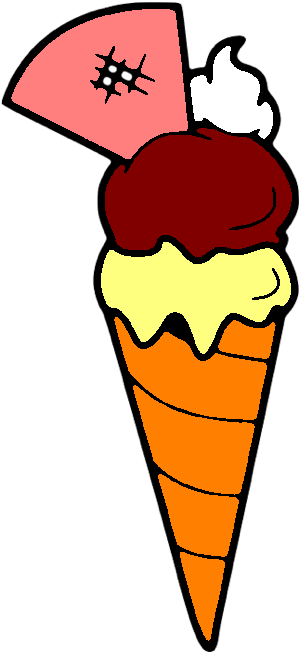
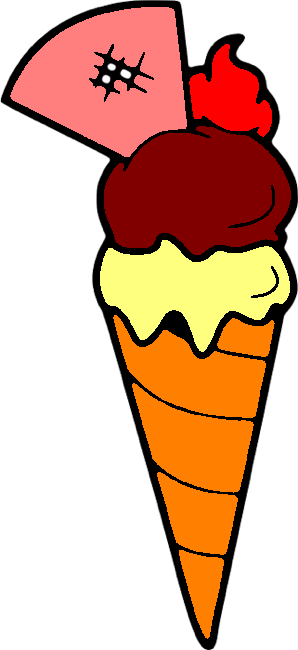
Remove white from drawing images. Mark mixing area as clicked once new color is dragged onto it.

diff --git a/js/image_library.js b/js/image_library.js
@@ -8,28 +8,28 @@ ImageLibrary =
 {level: 0, type: "video", filename: "tutorials/level1_tutorial.m4v", jsonRecordedData: [], messageData: [{"t": 1, "message": "Let's learn how to fill color!" }, { "t": 8, "message": "Touch blob to pick color" }, { "t": 17, "message": "Touch drawing to fill color" }, { "t": 21, "message": " " }]},
 {level: 1, type: "image", filename: "heart", jsonRecordedData: [{"x":240,"y":301,"color":"rgba(255,0,0,1)"}]},
 {level: 1, type: "image", filename: "cheese", jsonRecordedData: [{"x":442,"y":467,"color":"rgba(255,255,0,1)"},{"x":455,"y":282,"color":"rgba(255,255,0,1)"},{"x":250,"y":396,"color":"rgba(1,1,1,1)"},{"x":465,"y":346,"color":"rgba(1,1,1,1)"}]},
-{level: 1, type: "image", filename: "rabbit", jsonRecordedData: [{"x":484,"y":519,"color":"rgba(255,255,255,1)"},{"x":334,"y":562,"color":"rgba(255,255,255,1)"},{"x":326,"y":592,"color":"rgba(255,255,255,1)"},{"x":296,"y":595,"color":"rgba(255,255,255,1)"},{"x":436,"y":281,"color":"rgba(255,255,255,1)"},{"x":274,"y":279,"color":"rgba(255,255,255,1)"},{"x":310,"y":518,"color":"rgba(255,0,0,1)"},{"x":242,"y":302,"color":"rgba(255,0,0,1)"},{"x":373,"y":280,"color":"rgba(255,0,0,1)"}]},
+{level: 1, type: "image", filename: "rabbit", jsonRecordedData: [{"x":331,"y":358,"color":"rgba(255,255,0,1)"},{"x":172,"y":103,"color":"rgba(255,255,0,1)"},{"x":423,"y":108,"color":"rgba(255,255,0,1)"},{"x":311,"y":522,"color":"rgba(1,1,1,1)"},{"x":224,"y":576,"color":"rgba(255,0,0,1)"},{"x":230,"y":296,"color":"rgba(255,0,0,1)"},{"x":383,"y":282,"color":"rgba(255,0,0,1)"}]},
 {level: 1, type: "image", filename: "ladybird", jsonRecordedData: [{"x":194,"y":390,"color":"rgba(1,1,1,1)"},{"x":314,"y":342,"color":"rgba(1,1,1,1)"},{"x":356,"y":383,"color":"rgba(1,1,1,1)"},{"x":387,"y":349,"color":"rgba(1,1,1,1)"},{"x":276,"y":302,"color":"rgba(1,1,1,1)"},{"x":360,"y":302,"color":"rgba(1,1,1,1)"},{"x":288,"y":386,"color":"rgba(255,0,0,1)"},{"x":307,"y":299,"color":"rgba(255,0,0,1)"}]},
 {level: 2, type: "video", filename: "tutorials/level2_tutorial.m4v", jsonRecordedData: [], messageData: [{"t": 1, "message": "Learn to create new colors!" }, { "t": 6, "message": "Drag colors to mixing area" }, { "t": 16, "message": "Drag new color to blob to save!" }, { "t": 20, "message": " " }]},
 {level: 3, type: "image", filename: "chick_head", jsonRecordedData: [{"x":360,"y":550,"color":"rgba(255,255,0,1)"},{"x":322,"y":433,"color":"rgba(255,127,0,1)"},{"x":314,"y":497,"color":"rgba(255,127,0,1)"}]},
 {level: 3, type: "image", filename: "duckling", jsonRecordedData: [{"x":363,"y":284,"color":"rgba(255,255,0,1)"},{"x":456,"y":240,"color":"rgba(255,127,0,1)"}]},
-{level: 3, type: "image", filename: "frog_1", jsonRecordedData: [{"x":372,"y":537,"color":"rgba(0,128,0,1)"},{"x":350,"y":269,"color":"rgba(0,128,0,1)"},{"x":378,"y":216,"color":"rgba(255,255,255,1)"},{"x":239,"y":176,"color":"rgba(255,255,255,1)"}]},
+{level: 3, type: "image", filename: "frog_1", jsonRecordedData: [{"x":372,"y":537,"color":"rgba(0,128,0,1)"},{"x":350,"y":269,"color":"rgba(0,128,0,1)"}]},
 {level: 3, type: "image", filename: "caterpillar", jsonRecordedData: [{"x":449,"y":415,"color":"rgba(0,255,0,1)"},{"x":321,"y":365,"color":"rgba(0,255,0,1)"},{"x":251,"y":270,"color":"rgba(0,255,0,1)"},{"x":146,"y":375,"color":"rgba(0,255,0,1)"},{"x":60,"y":392,"color":"rgba(0,255,0,1)"},{"x":390,"y":369,"color":"rgba(0,128,0,1)"},{"x":276,"y":318,"color":"rgba(0,128,0,1)"},{"x":184,"y":351,"color":"rgba(0,128,0,1)"},{"x":89,"y":394,"color":"rgba(0,128,0,1)"}]},
 {level: 3, type: "image", filename: "bee", jsonRecordedData: [{"x":366,"y":386,"color":"rgba(255,255,0,1)"},{"x":302,"y":401,"color":"rgba(255,255,0,1)"},{"x":227,"y":406,"color":"rgba(255,255,0,1)"},{"x":165,"y":421,"color":"rgba(255,255,0,1)"},{"x":374,"y":218,"color":"rgba(128,128,128,1)"},{"x":245,"y":231,"color":"rgba(128,128,128,1)"}]},
 {level: 3, type: "image", filename: "beach_bucket", jsonRecordedData: [{"x":283,"y":513,"color":"rgba(255,255,0,1)"},{"x":171,"y":384,"color":"rgba(255,255,0,1)"},{"x":373,"y":311,"color":"rgba(255,255,0,1)"},{"x":215,"y":620,"color":"rgba(127,0,127,1)"},{"x":317,"y":350,"color":"rgba(127,0,127,1)"},{"x":445,"y":299,"color":"rgba(127,0,127,1)"},{"x":487,"y":286,"color":"rgba(127,0,127,1)"},{"x":484,"y":365,"color":"rgba(255,255,0,1)"},{"x":156,"y":327,"color":"rgba(255,255,0,1)"},{"x":134,"y":289,"color":"rgba(255,255,0,1)"},{"x":181,"y":336,"color":"rgba(127,0,127,1)"}]},
 {level: 3, type: "image", filename: "circus_tent", jsonRecordedData: [{"x":202,"y":382,"color":"rgba(255,0,0,1)"},{"x":205,"y":347,"color":"rgba(255,0,0,1)"},{"x":291,"y":352,"color":"rgba(255,0,0,1)"},{"x":374,"y":352,"color":"rgba(255,0,0,1)"},{"x":326,"y":220,"color":"rgba(255,0,0,1)"},{"x":158,"y":463,"color":"rgba(255,0,0,1)"},{"x":213,"y":462,"color":"rgba(255,0,0,1)"},{"x":274,"y":451,"color":"rgba(255,0,0,1)"},{"x":353,"y":440,"color":"rgba(255,0,0,1)"},{"x":412,"y":444,"color":"rgba(255,0,0,1)"},{"x":481,"y":447,"color":"rgba(255,0,0,1)"},{"x":180,"y":438,"color":"rgba(255,255,127,1)"},{"x":248,"y":445,"color":"rgba(255,255,127,1)"},{"x":249,"y":355,"color":"rgba(255,255,127,1)"},{"x":330,"y":355,"color":"rgba(255,255,127,1)"},{"x":430,"y":352,"color":"rgba(255,255,127,1)"},{"x":325,"y":407,"color":"rgba(255,255,127,1)"},{"x":380,"y":416,"color":"rgba(255,255,127,1)"},{"x":446,"y":431,"color":"rgba(255,255,127,1)"}]},
 {level: 4, type: "image", filename: "pigeon", jsonRecordedData: [{"x":330,"y":412,"color":"rgba(255,255,0,1)"},{"x":358,"y":314,"color":"rgba(255,255,127,1)"},{"x":462,"y":254,"color":"rgba(255,127,0,1)"},{"x":457,"y":277,"color":"rgba(255,127,0,1)"},{"x":163,"y":226,"color":"rgba(255,127,0,1)"},{"x":232,"y":514,"color":"rgba(255,127,0,1)"},{"x":347,"y":514,"color":"rgba(255,127,0,1)"},{"x":177,"y":579,"color":"rgba(0,128,0,1)"}]},
 {level: 4, type: "image", filename: "flower", jsonRecordedData: [{"x":236,"y":425,"color":"rgba(128,0,0,1)"},{"x":158,"y":291,"color":"rgba(128,0,0,1)"},{"x":212,"y":174,"color":"rgba(128,0,0,1)"},{"x":356,"y":164,"color":"rgba(128,0,0,1)"},{"x":447,"y":212,"color":"rgba(128,0,0,1)"},{"x":447,"y":320,"color":"rgba(128,0,0,1)"},{"x":371,"y":412,"color":"rgba(128,0,0,1)"},{"x":305,"y":631,"color":"rgba(0,255,0,1)"},{"x":367,"y":574,"color":"rgba(0,128,0,1)"},{"x":311,"y":343,"color":"rgba(255,255,0,1)"}]},
-{level: 4, type: "image", filename: "ice_cream", jsonRecordedData: [{"x":357,"y":620,"color":"rgba(255,127,0,1)"},{"x":359,"y":539,"color":"rgba(255,127,0,1)"},{"x":359,"y":482,"color":"rgba(255,127,0,1)"},{"x":375,"y":412,"color":"rgba(255,127,0,1)"},{"x":401,"y":371,"color":"rgba(255,127,0,1)"},{"x":390,"y":304,"color":"rgba(255,255,127,1)"},{"x":353,"y":228,"color":"rgba(128,0,0,1)"},{"x":401,"y":137,"color":"rgba(255,255,255,1)"},{"x":250,"y":135,"color":"rgba(255,127,127,1)"}]},
-{level: 4, type: "image", filename: "owl", jsonRecordedData: [{"x":312,"y":515,"color":"rgba(127,127,255,1)"},{"x":378,"y":273,"color":"rgba(255,255,255,1)"},{"x":199,"y":589,"color":"rgba(255,0,0,1)"},{"x":225,"y":586,"color":"rgba(255,0,0,1)"},{"x":243,"y":586,"color":"rgba(255,0,0,1)"},{"x":371,"y":586,"color":"rgba(255,0,0,1)"},{"x":392,"y":585,"color":"rgba(255,0,0,1)"},{"x":416,"y":587,"color":"rgba(255,0,0,1)"},{"x":311,"y":264,"color":"rgba(255,0,0,1)"}]},
-{level: 4, type: "image", filename: "dinosaur", jsonRecordedData: [{"x":315,"y":582,"color":"rgba(0,128,0,1)"},{"x":276,"y":602,"color":"rgba(0,128,0,1)"},{"x":199,"y":614,"color":"rgba(0,128,0,1)"},{"x":160,"y":605,"color":"rgba(0,128,0,1)"},{"x":194,"y":244,"color":"rgba(0,128,0,1)"},{"x":247,"y":514,"color":"rgba(127,127,255,1)"},{"x":154,"y":78,"color":"rgba(255,255,255,1)"}]},
-{level: 4, type: "image", filename: "frog", jsonRecordedData: [{"x":391,"y":312,"color":"rgba(0,255,0,1)"},{"x":469,"y":395,"color":"rgba(0,255,0,1)"},{"x":244,"y":265,"color":"rgba(0,128,0,1)"},{"x":451,"y":186,"color":"rgba(0,128,0,1)"},{"x":429,"y":150,"color":"rgba(0,128,0,1)"},{"x":360,"y":460,"color":"rgba(128,128,0,1)"}]},
+{level: 4, type: "image", filename: "ice_cream", jsonRecordedData: [{"x":357,"y":620,"color":"rgba(255,127,0,1)"},{"x":359,"y":539,"color":"rgba(255,127,0,1)"},{"x":359,"y":482,"color":"rgba(255,127,0,1)"},{"x":375,"y":412,"color":"rgba(255,127,0,1)"},{"x":401,"y":371,"color":"rgba(255,127,0,1)"},{"x":390,"y":304,"color":"rgba(255,255,127,1)"},{"x":353,"y":228,"color":"rgba(128,0,0,1)"},{"x":401,"y":137,"color":"rgba(255,0,0,1)"},{"x":250,"y":135,"color":"rgba(255,127,127,1)"}]},
+{level: 4, type: "image", filename: "owl", jsonRecordedData: [{"x":312,"y":515,"color":"rgba(127,127,255,1)"},{"x":199,"y":589,"color":"rgba(255,0,0,1)"},{"x":225,"y":586,"color":"rgba(255,0,0,1)"},{"x":243,"y":586,"color":"rgba(255,0,0,1)"},{"x":371,"y":586,"color":"rgba(255,0,0,1)"},{"x":392,"y":585,"color":"rgba(255,0,0,1)"},{"x":416,"y":587,"color":"rgba(255,0,0,1)"},{"x":311,"y":264,"color":"rgba(255,0,0,1)"}]},
+{level: 4, type: "image", filename: "dinosaur", jsonRecordedData: [{"x":315,"y":582,"color":"rgba(0,128,0,1)"},{"x":276,"y":602,"color":"rgba(0,128,0,1)"},{"x":199,"y":614,"color":"rgba(0,128,0,1)"},{"x":160,"y":605,"color":"rgba(0,128,0,1)"},{"x":194,"y":244,"color":"rgba(0,128,0,1)"},{"x":247,"y":514,"color":"rgba(127,127,255,1)"}]},
+{level: 4, type: "image", filename: "frog", jsonRecordedData: [{"x":391,"y":312,"color":"rgba(0,255,0,1)"},{"x":469,"y":395,"color":"rgba(0,255,0,1)"},{"x":244,"y":265,"color":"rgba(0,128,0,1)"},{"x":451,"y":186,"color":"rgba(0,128,0,1)"},{"x":429,"y":150,"color":"rgba(0,128,0,1)"},{"x":360,"y":460,"color":"rgba(85,85,0,1)"}]},
 {level: 4, type: "image", filename: "mailbox", jsonRecordedData:[{"x":302,"y":526,"color":"rgba(128,0,0,1)"},{"x":325,"y":156,"color":"rgba(255,0,0,1)"},{"x":154,"y":222,"color":"rgba(255,0,0,1)"},{"x":282,"y":340,"color":"rgba(1,1,1,1)"},{"x":173,"y":306,"color":"rgba(1,1,1,1)"},{"x":129,"y":303,"color":"rgba(1,1,1,1)"},{"x":404,"y":365,"color":"rgba(128,128,128,1)"},{"x":151,"y":341,"color":"rgba(128,128,128,1)"},{"x":184,"y":423,"color":"rgba(128,128,128,1)"}]},
 {level: 4, type: "image", filename: "pig", jsonRecordedData: [{"x":300,"y":345,"color":"rgba(255,127,127,1)"},{"x":213,"y":466,"color":"rgba(255,127,127,1)"},{"x":367,"y":461,"color":"rgba(255,127,127,1)"},{"x":363,"y":230,"color":"rgba(255,85,85,1)"},{"x":515,"y":226,"color":"rgba(255,85,85,1)"},{"x":474,"y":376,"color":"rgba(255,85,85,1)"},{"x":100,"y":258,"color":"rgba(255,85,85,1)"},{"x":73,"y":265,"color":"rgba(255,85,85,1)"}]},
 {level: 5, type: "image", filename: "fish", jsonRecordedData: [{"x":250,"y":475,"color":"rgba(85,85,85,1)"},{"x":232,"y":374,"color":"rgba(85,85,85,1)"},{"x":232,"y":278,"color":"rgba(85,85,85,1)"},{"x":166,"y":438,"color":"rgba(85,85,85,1)"},{"x":156,"y":367,"color":"rgba(85,85,85,1)"},{"x":168,"y":293,"color":"rgba(85,85,85,1)"},{"x":94,"y":408,"color":"rgba(85,85,85,1)"},{"x":254,"y":528,"color":"rgba(85,85,85,1)"},{"x":264,"y":183,"color":"rgba(85,85,85,1)"},{"x":309,"y":421,"color":"rgba(128,128,128,1)"},{"x":321,"y":505,"color":"rgba(128,128,128,1)"},{"x":284,"y":312,"color":"rgba(128,128,128,1)"},{"x":300,"y":236,"color":"rgba(128,128,128,1)"},{"x":191,"y":315,"color":"rgba(128,128,128,1)"},{"x":188,"y":414,"color":"rgba(128,128,128,1)"},{"x":205,"y":477,"color":"rgba(128,128,128,1)"},{"x":138,"y":388,"color":"rgba(128,128,128,1)"},{"x":201,"y":260,"color":"rgba(128,128,128,1)"},{"x":565,"y":294,"color":"rgba(0,0,255,1)"},{"x":540,"y":212,"color":"rgba(0,0,255,1)"},{"x":371,"y":411,"color":"rgba(255,255,127,1)"},{"x":503,"y":416,"color":"rgba(1,1,1,1)"}]},
-{level: 5, type: "image", filename: "blue_clue", jsonRecordedData: [{"x":385,"y":389,"color":"rgba(127,127,255,1)"},{"x":457,"y":266,"color":"rgba(127,127,255,1)"},{"x":185,"y":449,"color":"rgba(127,127,255,1)"},{"x":246,"y":505,"color":"rgba(127,127,255,1)"},{"x":187,"y":405,"color":"rgba(0,0,255,1)"},{"x":158,"y":279,"color":"rgba(0,0,255,1)"},{"x":207,"y":178,"color":"rgba(0,0,255,1)"},{"x":380,"y":202,"color":"rgba(0,0,255,1)"},{"x":484,"y":310,"color":"rgba(0,0,255,1)"},{"x":242,"y":469,"color":"rgba(0,0,255,1)"},{"x":313,"y":236,"color":"rgba(255,255,255,1)"},{"x":412,"y":340,"color":"rgba(0,0,255,1)"},{"x":328,"y":408,"color":"rgba(255,127,127,1)"},{"x":320,"y":304,"color":"rgba(255,127,127,1)"}]},
+{level: 5, type: "image", filename: "blue_clue", jsonRecordedData: [{"x":385,"y":389,"color":"rgba(127,127,255,1)"},{"x":457,"y":266,"color":"rgba(127,127,255,1)"},{"x":185,"y":449,"color":"rgba(127,127,255,1)"},{"x":246,"y":505,"color":"rgba(127,127,255,1)"},{"x":187,"y":405,"color":"rgba(0,0,255,1)"},{"x":158,"y":279,"color":"rgba(0,0,255,1)"},{"x":207,"y":178,"color":"rgba(0,0,255,1)"},{"x":380,"y":202,"color":"rgba(0,0,255,1)"},{"x":484,"y":310,"color":"rgba(0,0,255,1)"},{"x":242,"y":469,"color":"rgba(0,0,255,1)"},{"x":412,"y":340,"color":"rgba(0,0,255,1)"},{"x":328,"y":408,"color":"rgba(255,127,127,1)"},{"x":320,"y":304,"color":"rgba(255,127,127,1)"}]},
 {level: 5, type: "image", filename: "butterfly", jsonRecordedData: [{"x":290,"y":379,"color":"rgba(255,127,127,1)"},{"x":219,"y":422,"color":"rgba(255,127,127,1)"},{"x":262,"y":264,"color":"rgba(255,127,127,1)"},{"x":242,"y":553,"color":"rgba(255,127,127,1)"},{"x":278,"y":556,"color":"rgba(255,127,127,1)"},{"x":246,"y":387,"color":"rgba(170,85,170,1)"},{"x":220,"y":316,"color":"rgba(170,85,170,1)"},{"x":350,"y":362,"color":"rgba(170,85,170,1)"},{"x":389,"y":497,"color":"rgba(170,85,170,1)"},{"x":157,"y":492,"color":"rgba(170,85,170,1)"},{"x":221,"y":457,"color":"rgba(127,0,127,1)"},{"x":333,"y":452,"color":"rgba(127,0,127,1)"},{"x":397,"y":370,"color":"rgba(127,0,127,1)"},{"x":480,"y":298,"color":"rgba(127,0,127,1)"},{"x":386,"y":195,"color":"rgba(127,0,127,1)"},{"x":449,"y":208,"color":"rgba(127,0,127,1)"},{"x":139,"y":288,"color":"rgba(127,0,127,1)"},{"x":174,"y":352,"color":"rgba(127,0,127,1)"},{"x":136,"y":192,"color":"rgba(127,0,127,1)"}] },
 {level: 5, type: "image", filename: "tortoise", jsonRecordedData: [{"x":195,"y":360,"color":"rgba(0,255,0,1)"},{"x":350,"y":338,"color":"rgba(0,255,0,1)"},{"x":110,"y":362,"color":"rgba(0,170,0,1)"},{"x":283,"y":373,"color":"rgba(0,170,0,1)"},{"x":240,"y":277,"color":"rgba(0,128,0,1)"},{"x":180,"y":449,"color":"rgba(0,255,0,1)"},{"x":216,"y":444,"color":"rgba(0,255,0,1)"},{"x":258,"y":440,"color":"rgba(0,255,0,1)"},{"x":339,"y":426,"color":"rgba(0,255,0,1)"},{"x":251,"y":409,"color":"rgba(0,128,0,1)"},{"x":136,"y":459,"color":"rgba(170,85,0,1)"},{"x":302,"y":453,"color":"rgba(170,85,0,1)"},{"x":379,"y":450,"color":"rgba(170,85,0,1)"},{"x":448,"y":349,"color":"rgba(170,85,0,1)"}]},
 {level: 5, type: "image", filename: "mouse", jsonRecordedData: [{"x":316,"y":592,"color":"rgba(170,85,0,1)"},{"x":381,"y":590,"color":"rgba(170,85,0,1)"},{"x":348,"y":275,"color":"rgba(170,85,0,1)"},{"x":435,"y":306,"color":"rgba(170,85,0,1)"},{"x":463,"y":284,"color":"rgba(170,85,0,1)"},{"x":335,"y":107,"color":"rgba(170,85,0,1)"},{"x":464,"y":200,"color":"rgba(127,0,127,1)"},{"x":486,"y":170,"color":"rgba(255,255,0,1)"}]},
-{level: 5, type: "image", filename: "yogi_bear", jsonRecordedData: [{"x":420,"y":342,"color":"rgba(1,1,1,1)"},{"x":317,"y":424,"color":"rgba(1,1,1,1)"},{"x":340,"y":287,"color":"rgba(1,1,1,1)"},{"x":399,"y":293,"color":"rgba(1,1,1,1)"},{"x":290,"y":178,"color":"rgba(1,1,1,1)"},{"x":309,"y":557,"color":"rgba(255,255,255,1)"},{"x":462,"y":554,"color":"rgba(255,255,255,1)"},{"x":341,"y":474,"color":"rgba(255,127,127,1)"},{"x":131,"y":232,"color":"rgba(170,85,0,1)"},{"x":293,"y":420,"color":"rgba(170,85,0,1)"},{"x":445,"y":465,"color":"rgba(170,85,0,1)"},{"x":333,"y":243,"color":"rgba(255,255,255,1)"},{"x":389,"y":253,"color":"rgba(255,255,255,1)"},{"x":209,"y":283,"color":"rgba(128,0,0,1)"},{"x":415,"y":185,"color":"rgba(85,170,0,1)"},{"x":337,"y":148,"color":"rgba(85,170,0,1)"},{"x":274,"y":129,"color":"rgba(85,170,0,1)"},{"x":225,"y":180,"color":"rgba(85,170,0,1)"}]},
+{level: 5, type: "image", filename: "yogi_bear", jsonRecordedData: [{"x":406,"y":181,"color":"rgba(85,170,0,1)"},{"x":322,"y":154,"color":"rgba(85,170,0,1)"},{"x":285,"y":132,"color":"rgba(85,170,0,1)"},{"x":176,"y":121,"color":"rgba(85,170,0,1)"},{"x":330,"y":594,"color":"rgba(85,170,0,1)"},{"x":467,"y":557,"color":"rgba(85,170,0,1)"},{"x":438,"y":358,"color":"rgba(1,1,1,1)"},{"x":337,"y":285,"color":"rgba(1,1,1,1)"},{"x":398,"y":292,"color":"rgba(1,1,1,1)"},{"x":376,"y":475,"color":"rgba(1,1,1,1)"},{"x":273,"y":174,"color":"rgba(1,1,1,1)"},{"x":237,"y":299,"color":"rgba(128,0,0,1)"},{"x":291,"y":479,"color":"rgba(170,85,0,1)"},{"x":458,"y":463,"color":"rgba(170,85,0,1)"},{"x":144,"y":225,"color":"rgba(170,85,0,1)"},{"x":347,"y":468,"color":"rgba(255,127,127,1)"}]},
 ]

diff --git a/js/color_math.js b/js/color_math.js
@@ -14,6 +14,7 @@ App = {
     
     // Add all the click handlers.    
     $("#primary-palette-squares .palette-square").click(jQuery.proxy(this.onPaletteClick, this));
+    $("#mixing-area-square").click(jQuery.proxy(this.onMixingAreaClick, this));
   	$('#tutorial').click(jQuery.proxy(this.onCanvasClick, this));
   	$("#clear-mixing-area").click(jQuery.proxy(this.onClearButtonClick, this));
   	$("#drawingScreen .list-button").click(jQuery.proxy(ListView.showImageLibrary, ListView));  
@@ -41,6 +42,24 @@ App = {
     $(event.currentTarget).find(".clicked").show();
   },
   
+  onMixingAreaClick: function(event, ui) {
+    // If empty, then do not select the mixing area.
+    if (this.mixingAreaColorList.length == 0) return;
+    
+    // Pick up the color.
+    var paletteCanvas = $(event.target);
+    this.paletteColorTuple = $.xcolor.test($(paletteCanvas).attr("color"));
+
+    // Toggle the state of all palette squares to only
+    // show the clicked one in the clicked state.
+    $("#palette .clicked").hide();
+    $("#palette .unclicked").show();
+    
+    // TODO(neha): Revisit once we have clicked image for mixing area.
+    // $(event.currentTarget).find(".unclicked").hide();
+    //    $(event.currentTarget).find(".clicked").show();
+  },
+  
   onCanvasClick: function(event) {
     if (!this.eventEnabled) return;
     
@@ -62,9 +81,9 @@ App = {
    	var imageData = ctx.getImageData(0, 0, ctx.canvas.width, ctx.canvas.height);
   	var previewImageData = canvasPreviewCtx.getImageData(0, 0, canvasPreviewCtx.canvas.width, canvasPreviewCtx.canvas.height);
   	
-  	// !!! DEBUG !!!
+  	// !!! DEBUG -- Generate colored image thumbnail !!!
     // var imgSrc = imagePreview.toDataURL("image/png");
-    //               $('#colored-image').attr('src', imgSrc);
+    // $('#colored-image').attr('src', imgSrc);
   	// !!! DEBUG !!!
   	
   	// Return if the click happened outside the region that can be colored.
@@ -317,8 +336,6 @@ App = {
     App.paletteColorTuple = mixedColorTuple;
     $("#palette .clicked").hide();
     $("#palette .unclicked").show();
-    // swatch.find(".clicked").show();
-    //     swatch.find(".unclicked").hide();
   },
   
   dragAndDropFloodFillHelper: function(canvasId, colorRgb, colorRgbTuple) {

diff --git a/colorpal.html b/colorpal.html
@@ -21,7 +21,7 @@
 <body>
   <div id="page">
     <!-- <div id="colorDump" class="screen">
-    <div><img src="drawing_images/bee.png" id="colored-image"></div>
+      <div><img src="drawing_images/bee.png" id="colored-image"></div>
     </div> -->
     <div id="startScreen" class="screen">
       <div id="logo-text" class="start-screen-style"><img src="images/logo_text.png"/></div>
@@ -38,11 +38,11 @@
     </div>
     <div id="drawingScreen" class="screen" style="display:none">
       <!-- Debug buttons -->
-      <!-- <div id="debug" style="display:none">
-      <button type="button" name="start-recording-action">Start Recording</button>
-      <button type="button" name="stop-recording-action">Stop Recording</button>
-      <button type="button" name="debug-next">Color cheat</button>
-      </div> -->
+      <div id="debug" style="">
+        <button type="button" name="start-recording-action">Start Recording</button>
+        <button type="button" name="stop-recording-action">Stop Recording</button>
+        <button type="button" name="debug-next">Color cheat</button>
+      </div>
       <!-- Draw the canvas-->
       <div id="tutorial-container">
         <img src="images/smiley_thumbs_up.png" id="completion-image" style="display:none"/>
